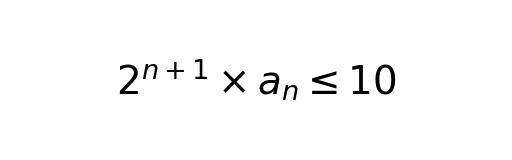
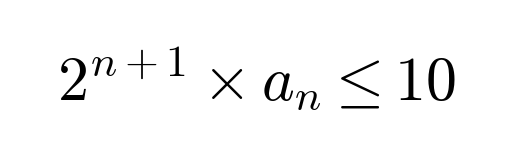
vision(s3-1): the probe set in Computer Modern, filling the crop — the transcriber's training regime
Claude-Session: https://claude.ai/code/session_01W9ZnszzonHJc3yCaT3d2qM

Changed region(s): [[0.0938, 0.2812, 0.9062, 0.6875], [0.6562, 0.6562, 0.75, 0.6875], [0.2188, 0.5312, 0.2812, 0.5938]]

diff --git a/probes/vision/fixtures/v1/gen.py b/probes/vision/fixtures/v1/gen.py
@@ -4,7 +4,8 @@
   python3 gen.py          write the 18 PNGs, items.json, manifest.json next to this file
   python3 gen.py --check  re-render to a temp dir and compare sha256s with the committed files (exit 1 on any difference)
 
-Rendered with matplotlib mathtext (no TeX needed), 512x160 px, white, DejaVu Sans 28 pt.
+Rendered with matplotlib mathtext in the Computer Modern fontset (the transcriber was trained on
+LaTeX-rendered formulas), 512x160 px, white, each formula scaled to fill ~78% of the width.
 """
 import hashlib
 import json
@@ -16,10 +17,14 @@ from pathlib import Path
 import matplotlib
 
 matplotlib.use("Agg")
+matplotlib.rcParams["mathtext.fontset"] = "cm"
 import matplotlib.pyplot as plt  # noqa: E402
 
 HERE = Path(__file__).resolve().parent
-FS = 28
+FS = 36          # starting size; each item is rescaled to fill the crop
+FS_MIN, FS_MAX = 28.0, 72.0
+FILL_W = 0.78    # target share of the 512 px width
+FILL_H = 0.80    # all lines together must stay within this share of the 160 px height
 
 # (id-slug, kind, mathtext lines, expected latex, plain reading, notes)
 PRINTED = [
@@ -56,14 +61,27 @@ def mathtext(line):
     return re.sub(r"\\(le|ge)(?![a-z])", r"\\\1q", line)
 
 
+def _extent(fig, lines, fs, ys):
+    """Width and total height (px) of the rendered lines at size fs."""
+    r = fig.canvas.get_renderer()
+    texts = [fig.text(0.5, y, ln, fontsize=fs, ha="center", va="center") for y, ln in zip(ys, lines)]
+    boxes = [t.get_window_extent(r) for t in texts]
+    for t in texts:
+        t.remove()
+    return max(bx.width for bx in boxes), max(bx.y1 for bx in boxes) - min(bx.y0 for bx in boxes)
+
+
 def render_printed(path, lines):
     lines = [mathtext(ln) for ln in lines]
     fig = new_fig()
-    if len(lines) == 1:
-        fig.text(0.5, 0.5, lines[0], fontsize=FS, ha="center", va="center")
-    else:
-        for y, ln in zip((0.68, 0.32), lines):
-            fig.text(0.5, y, ln, fontsize=FS, ha="center", va="center")
+    ys = (0.5,) if len(lines) == 1 else (0.70, 0.30)
+    w, h = _extent(fig, lines, FS, ys)
+    scale = min(FILL_W * 512 / w, FILL_H * 160 / h)
+    fs = round(max(FS_MIN, min(FS_MAX, FS * scale)), 1)
+    w, h = _extent(fig, lines, fs, ys)
+    assert w <= 512 * 0.95 and h <= 160 * 0.95, (lines, fs, w, h)  # nothing clipped
+    for y, ln in zip(ys, lines):
+        fig.text(0.5, y, ln, fontsize=fs, ha="center", va="center")
     save(fig, path)
 
 
@@ -75,7 +93,7 @@ def render_diagram(path):
     ax.plot(xs, ys, color="black", linewidth=2)
     ax.plot([0, 0.15, 0.15], [0.15, 0.15, 0], color="black", linewidth=1.5)
     for label, (x, y), dx, dy in (("A", A, -0.18, -0.12), ("B", B, 0.1, -0.12), ("C", C, -0.18, 0.04)):
-        ax.text(x + dx, y + dy, label, fontsize=FS - 6, ha="center", va="center")
+        ax.text(x + dx, y + dy, label, fontsize=22, ha="center", va="center")
     ax.set_xlim(-0.4, 1.9)
     ax.set_ylim(-0.3, 1.2)
     ax.axis("off")
@@ -85,7 +103,7 @@ def render_diagram(path):
 def render_prose(path):
     fig = new_fig()
     for y, ln in zip((0.78, 0.5, 0.22), ("Shopping list for Saturday:", "milk, eggs, bread, butter,", "apples and a jar of honey.")):
-        fig.text(0.5, y, ln, fontsize=FS - 4, ha="center", va="center")
+        fig.text(0.5, y, ln, fontsize=24, ha="center", va="center")
     save(fig, path)
 
 
